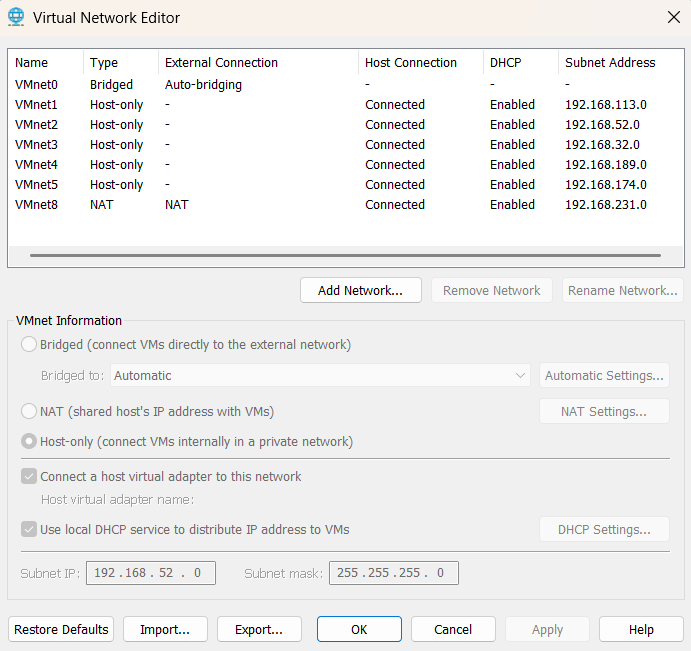
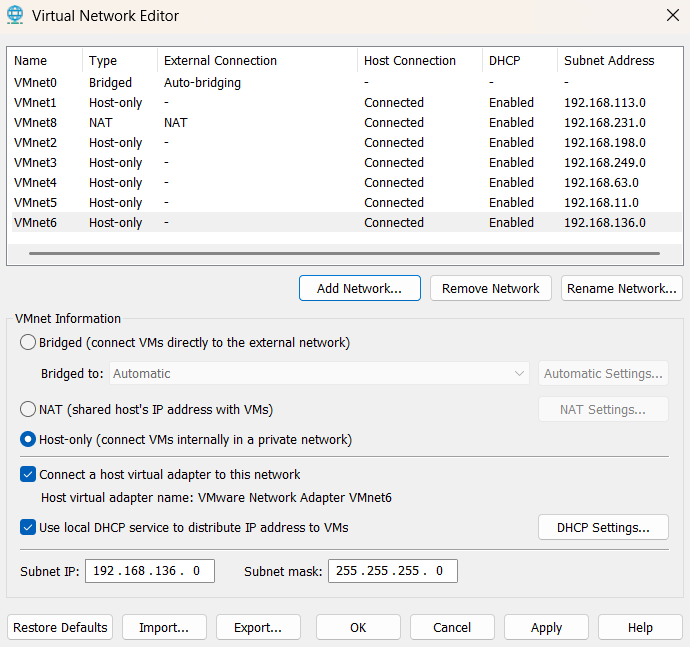
Update mod1 - README.md

diff --git a/mod1/README.md b/mod1/README.md
@@ -1,7 +1,9 @@
 # Attack & Defense Lab (module 1)
 
 > 1 machine for checker, scoreboard
+
 > 2 machines for teams
+
 > 2 machines for services of each team
 
 ## VMnet Configuration
@@ -39,26 +41,44 @@ Don't worry about those `Subnet Address`, it will help you connect to VM from yo
 
 ### ------ **Central machine**
 
-First, we will need to install 3 network adapter on **central** machine (remember to match VMnet with the correct adapter name):
+First, we will need to install 4 network adapter on **central** machine (remember to match VMnet with the correct adapter name):
 - `Network Adapter` is set to **NAT**
 - `Network Adapter 2` is set to **VMnet2**
 - `Network Adapter 3` is set to **VMnet4**:
+- `Network Adapter 4` is set to **VMnet6**:
 
 ![](.images/central-vmware-adapter.png)
 
-That's good! Let's setup our team machines!
+Those network adaters have to be in that order, if you see the order is as below:
+- `Network Adapter`
+- `Network Adapter 2`
+- `Network Adapter 4`
+- `Network Adapter 3`
+Then you will need to remove `Network Adapter 4` and add again until `Network Adapter 4` is below `Network Adapter 3`. If it is done, let's setup our team machines!
 
 ### ------ **Team machine**
 
-Now we will config `Network Adapter` of team 1 into **VMnet2**:
+For team 1, `Network Adapter` will be **VMnet2** and `Network Adapter 2` will be **VMnet3**:
 
 ![](.images/team1-vmware-adapter.png)
 
-Then we will config `Network Adapter` of team 2 into **VMnet3**:
+For team 2, `Network Adapter` will be **VMnet4** and `Network Adapter 2` will be **VMnet5**:
 
 ![](.images/team2-vmware-adapter.png)
 
-That's all we needed. Now let's setup necessary stuff!
+Let's move on service machines!
+
+### ------ **Service machine**
+
+For service 1, `Network Adapter` will be **VMnet3** and `Network Adapter 2` will be **VMnet6**:
+
+![](.images/service1-vmware-adapter.png)
+
+For service 2, `Network Adapter` will be **VMnet5** and `Network Adapter 2` will be **VMnet6**:
+
+![](.images/service2-vmware-adapter.png)
+
+That's all we needed. Now let's install necessary stuff!
 
 ## Setup
 
